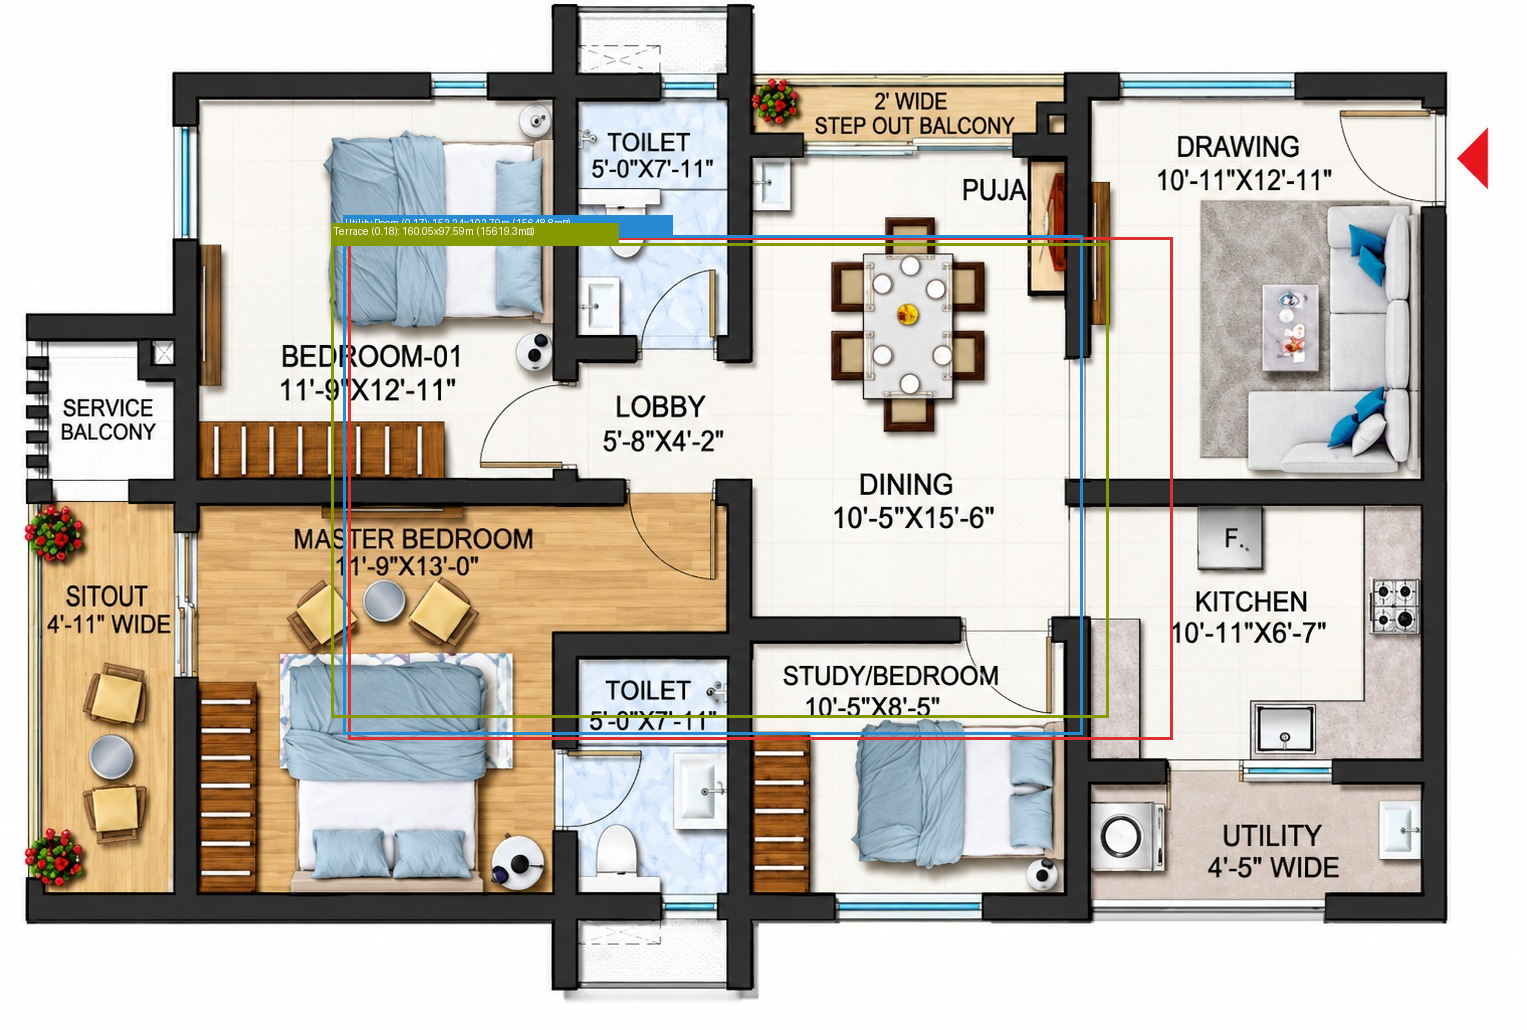
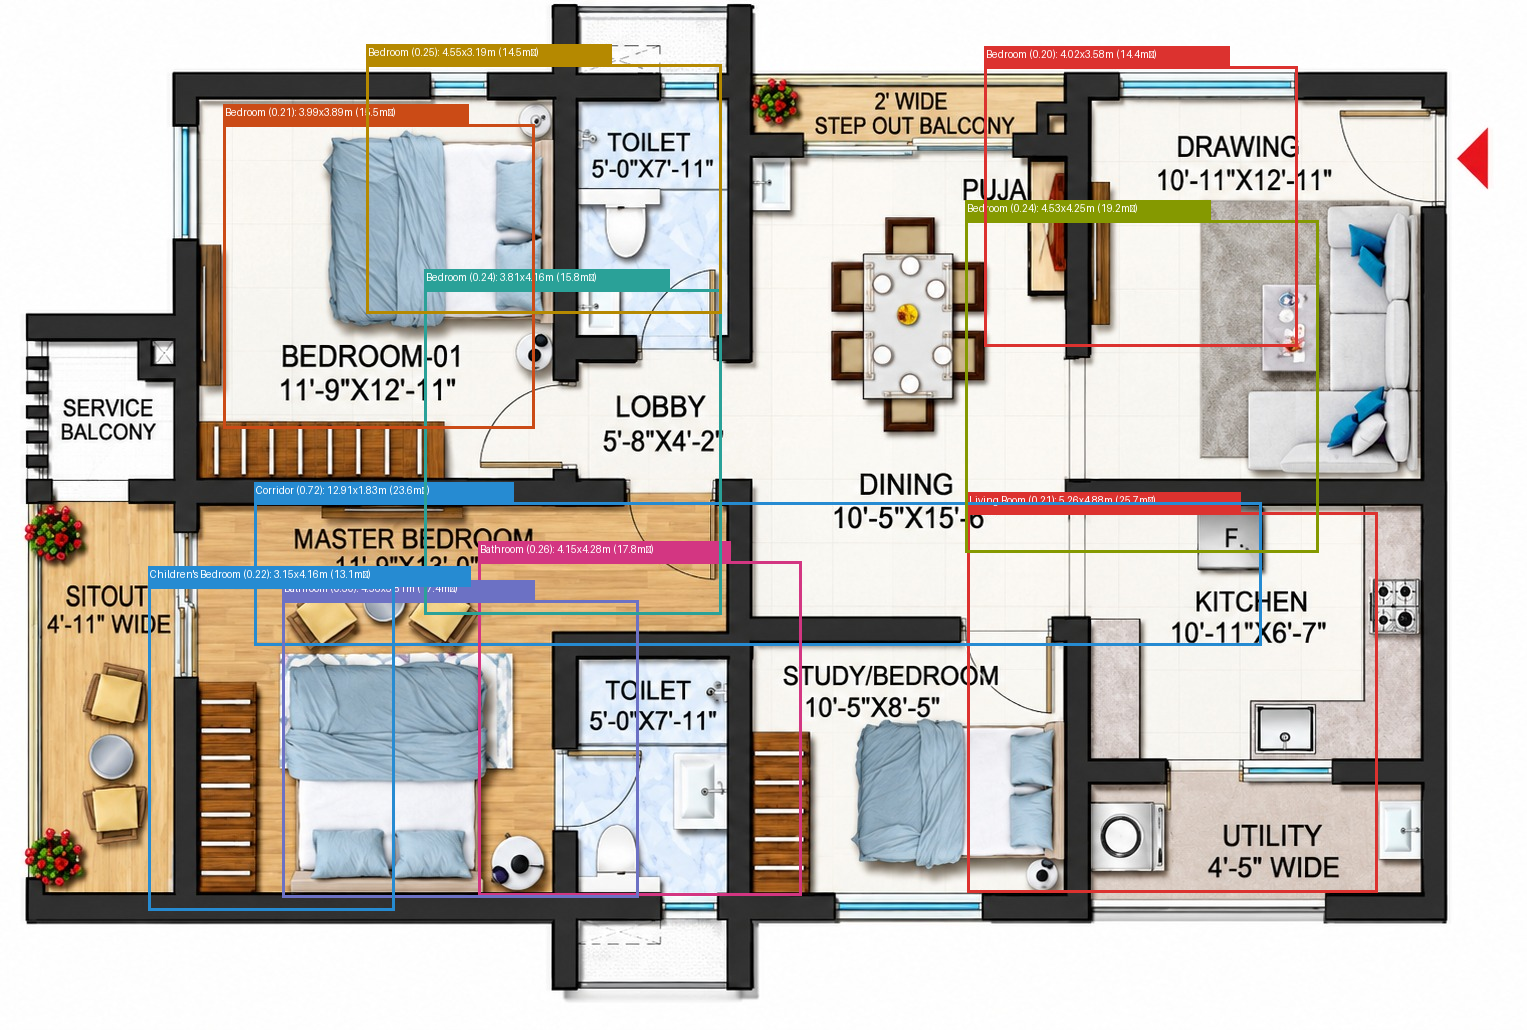
v24.5 : feat: Update 6th floor evaluation results and enhance prediction logic in MultiTaskViT

diff --git a/multitask_vit.py b/multitask_vit.py
@@ -128,7 +128,7 @@ class MultiTaskViT(nn.Module):
         }
 
     @torch.no_grad()
-    def predict_unseen_plan(self, image_path, conf_threshold=0.35, device="cpu"):
+    def predict_unseen_plan(self, image_path, conf_threshold=0.20, nms_threshold=0.30, device="cpu"):
         """
         End-to-End Inference:
         Input: Any unseen floor-plan image -> Output: rooms + dimensions in meters
@@ -154,10 +154,35 @@ class MultiTaskViT(nn.Module):
         probs = pred_logits.softmax(-1)
         scores, labels = probs[:, :self.num_classes].max(dim=-1)
 
-        detected_rooms = []
         keep = scores >= conf_threshold
+        if keep.sum() == 0:
+            return {
+                "image_path": str(image_path),
+                "image_size": [orig_w, orig_h],
+                "estimated_scale_px_per_m": round(orig_scale, 2),
+                "room_count": 0,
+                "rooms": [],
+            }
 
-        for score, label_id, box in zip(scores[keep], labels[keep], pred_boxes[keep]):
+        boxes_filt = pred_boxes[keep]
+        scores_filt = scores[keep]
+        labels_filt = labels[keep]
+
+        if nms_threshold is not None and len(boxes_filt) > 1:
+            import torchvision.ops as ops
+            boxes_xyxy = box_cxcywh_to_xyxy(boxes_filt)
+            boxes_xyxy_px = boxes_xyxy.clone()
+            boxes_xyxy_px[:, 0] *= orig_w
+            boxes_xyxy_px[:, 2] *= orig_w
+            boxes_xyxy_px[:, 1] *= orig_h
+            boxes_xyxy_px[:, 3] *= orig_h
+            nms_idx = ops.nms(boxes_xyxy_px, scores_filt, iou_threshold=nms_threshold)
+            boxes_filt = boxes_filt[nms_idx]
+            scores_filt = scores_filt[nms_idx]
+            labels_filt = labels_filt[nms_idx]
+
+        detected_rooms = []
+        for score, label_id, box in zip(scores_filt, labels_filt, boxes_filt):
             cx, cy, bw, bh = box.tolist()
             x0 = max(0.0, cx - bw / 2.0)
             y0 = max(0.0, cy - bh / 2.0)
